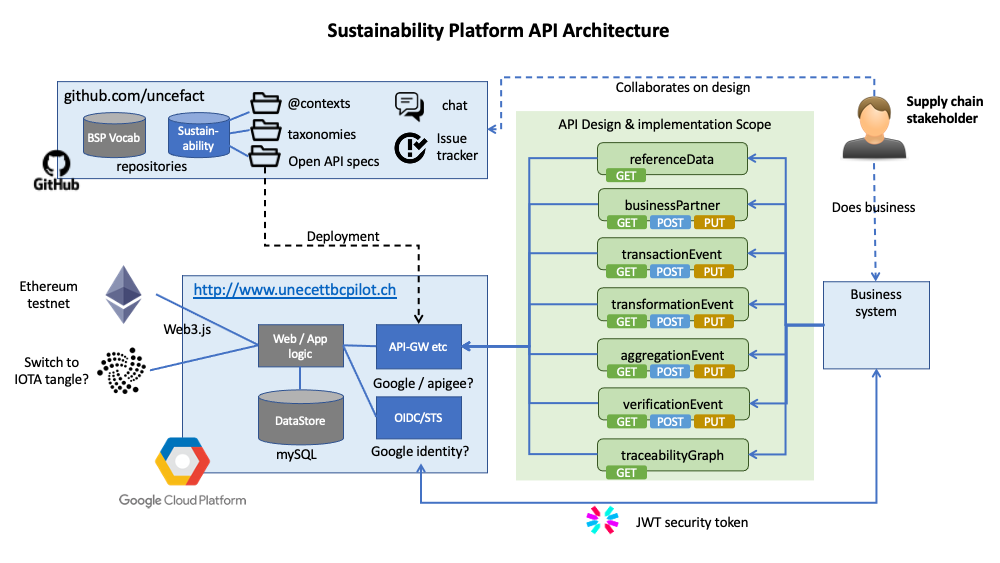
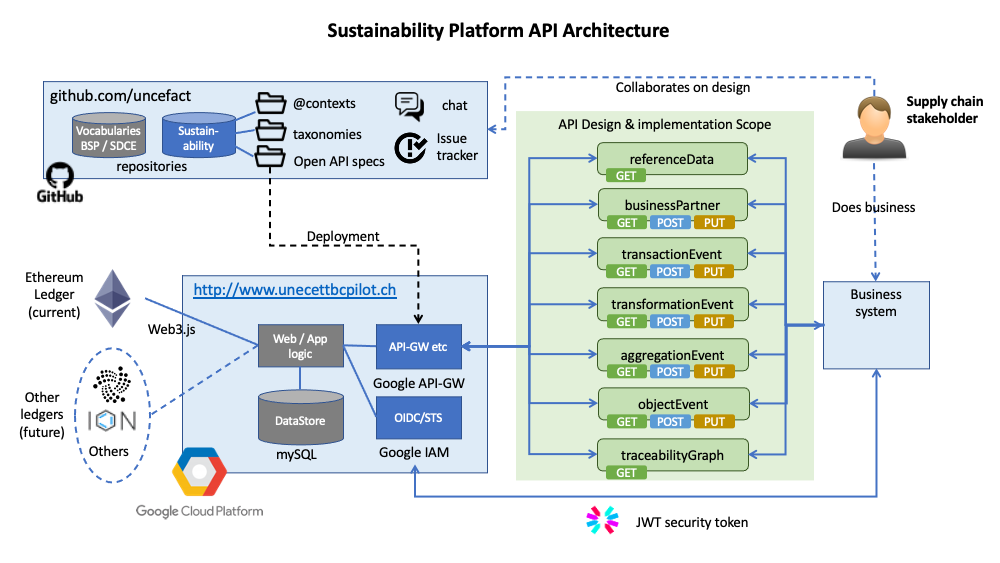
Gerhard feedback incorporated

diff --git a/README.md b/README.md
@@ -4,26 +4,26 @@ API definitions, JSON-LD vocabulary, and testable mocks for a UN standard supply
 
 Quick link| Description
 --|--
-Vocabulary| JSON-LD vocabularies (coming march 2022)
-API specification| RESTful Open API 3.0 specifications (coming march 2022)
+Vocabulary JSON-LD vocabularies (coming march 2022)
+API specification RESTful Open API 3.0 specifications (coming march 2022)
 Postman collection | API test client (coming April 2022)
 GraphQL playground | test area for trust graph queries
 [Project kanban](https://github.com/orgs/uncefact/projects/2/views/4)| epics, tasks, and milestones
-[Discussion Board](https://github.com/uncefact/traceability/discussions)|discussions about key topics and decisions
+[Discussion Board](https://github.com/uncefact/traceability/discussions)discussions about key topics and decisions
 
 
 ## Business Context
 
-In partnership with the International Trade Centre ([ITC](https://www.intracen.org/)) and with support from the European Union (EU), the United Nations Economic Commision for Europe ([UNECE](https://unece.org/)) is running a [program](https://unece.org/trade/traceability-sustainable-garment-and-footwear) to leverage supply chain traceability to improve sustainability in textile and leather supply chains.
+In partnership with the International Trade Centre ([ITC](https://www.intracen.org/)) and with support from the European Union (EU), the United Nations Economic Commission for Europe ([UNECE](https://unece.org/)) is running a [program](https://unece.org/trade/traceability-sustainable-garment-and-footwear) to leverage supply chain traceability to improve sustainability in textile and leather supply chains.
 
 https://unece.org/trade/traceability-sustainable-garment-and-footwear
 
 A component of the program is to demonstrate the feasibility of a decentralised blockchain-based architecture for digitally verifiable traceability. The [blockchain pilot](https://unece.org/sites/default/files/2021-04/ECE_TRADE_C_CEFACT_2021_12E-TextilePolicyBrief.pdf) has achieved significant interest from brands and jurisdictions and has successfully demonstrated the feasibility of leveraging transparency and verified claims to assure sustainability in the cotton and leather supply chain. However, the current platform requires manual entry of all data and so, whilst entirely suitable for early trials, faces two significant scalability challenges:
 
-1. **Data volumes.** Manual data entry works for a few dozens or hundreds of transactions sifficient to prove a traceability chain.  However it will not scale to the billions of transactions across the modern global supply chain. Therefore, this project will define a JSON-LD vocabulary and suite of RESTful APIs to support automation of traceability data exchange.
-2. **Supply chain complexity.** The textile & leather supply chain is truly global and very complex - including primary producers, ginning & weaving, garment manufacturing, distribution & retail, and eventual disposal. Even with API automation interfaces, it is unreasonable to imagine that every supply chain participant around the world will push their data to a single central traceability platform. Therefore, this project will define a decentralised linked data architecture based on W3C Verifiable Credentials and Decentralised Identifiers that will allow sustainability claims to be verified even when traceability data is distributed across thousands of different business systems and hundreds of different distributed ledger / traceability platforms.
+1. **Data volumes.** Manual data entry works for a few dozens or hundreds of transactions sufficient to prove a traceability chain.  However it will not scale to the billions of transactions across the modern global supply chain. Therefore, this project will define a JSON-LD vocabulary and suite of RESTful APIs to support automation of traceability and transparency data exchange.
+2. **Supply chain complexity.** The textile & leather supply chain is truly global and very complex - including primary producers, ginning & weaving, garment manufacturing, distribution & retail, and eventual disposal. Even with API automation interfaces, it is unreasonable to imagine that every supply chain participant around the world will push their data to a single central traceability platform. Therefore, this project will define a decentralised linked data architecture based on W3C Verifiable Credentials and Decentralised Identifiers that will allow sustainability claims to be verified even when traceability and transparency data is distributed across thousands of different business systems and hundreds of different distributed ledger / traceability platforms.
 
-The first step is to leverage standard GS1 and UN/CEFACT semantics to define standard APIs that the current UNECE traceability platform will support.  The next step is to leverage the same GS1 & UN/CEFACT semantics as the credential interoperability framework between a global network of platforms. 
+The first step is to leverage standard ISO EPCIS and UN/CEFACT semantics to define standard APIs that the current UNECE traceability platform will support.  The next step is to leverage the same GS1 & UN/CEFACT semantics as the credential interoperability framework between a global network of platforms. 
 
 ## API Requirements
 
@@ -31,9 +31,9 @@ The data held by the UNECE platform is essentially a series of key supply chain 
 
 ### API Principles
 
-* **Standards based.**  Aligned with the GS1 [EPCIS](https://www.gs1.org/standards/epcis/1-1) event model and conforming to UN/CEFACT supply chain semantics. This ensures consistency across multiple implementations.
+* **Standards based.**  Aligned with the ISO [EPCIS](https://www.gs1.org/standards/epcis/1-1) event model and conforming to UN/CEFACT supply chain semantics. This ensures consistency across multiple implementations.
 * **Lightweight.**  A suite of modern RESTful APIs that are simple to understand and easy to implement. This ensures that implementation effort and cost is minimised for our industry partners.
-* **Decentralisation aligned.** Since event data will come from multiple industry systems and must be correlated across the supply chain, the APIs will avoid locally maintained master data (products, locations, entities, etc) and will instead focus on the use of resolvable public identifiers where master data is maintained in whatever system is the identity authrority (eg a national business register).
+* **Decentralisation aligned.** Since event data will come from multiple industry systems and must be correlated across the supply chain, the APIs will avoid locally maintained master data (products, locations, entities, etc) and will instead focus on the use of resolvable public identifiers where master data is maintained in whatever system is the identity authority (eg a national business register).
 * **Secure.**  Applies best practice security architectures (authentication, authorisation, encryption, etc) and collects only the minimum required data. This ensures that data from industry partners is secure, and that commercial sensitive information is not exposed to unauthorised parties.
 * **Collaborative.**  We will co-design the APIs together with industry partners to ensure that they are fit for purpose and easily implementable.
 
@@ -48,21 +48,21 @@ The scope of APIs to be implemented is shown in the green box.
 * **Reference data API** allows industry systems to access the common vocabulary of terms such as document type, business step, and sustainability claim type.
 * **Business partner API** allows industry systems to create / update basic business partner data so that the platform has the contact information to verify claims (not needed for digitally verifiable claims).
 * **Transaction event API** is used to notify / update business-to-business events such as shipments & invoices.
-* **Transformation event API** is used to notify / update manufacturing events that transform input materials (eg thread) into output materials (eg fabric).
+* **Transformation event API** is used to notify / update manufacturing events that transform input materials (eg yarn) into output materials (eg fabric).
 * **Aggregation event API** is used to notify / update transport events when materials are packed or unpacked (eg many packages grouped into a pallet)
-* **Verification event API** is used to notify / update inspection or certification actions on either items or establishments.
+* **Object event API** is used to notify / update actions such as movements or inspections on specific objects such as trade items or facilities.
 * **Traceability graph API** provides a query interface for authorised users to retrieve all the linked events (commercially sensitive information redacted) for a given product that are used to verify sustainability. This API provides industry partners with the evidence to back their product sustainability claims.
 
 ### API Security model
 
-API Security will follow standard token based access control using OAuth implicit flow. This model is preferred over simple API keys as it is less susceptible to man-in-the-middle attacks and support finer grained role based acces via claims in the JWT.  For the UNECE platform which is hosted on Google Cloud, this means
+API Security will follow standard token based access control using OAuth implicit flow. This model is preferred over simple API keys as it is less susceptible to man-in-the-middle attacks and support finer grained role based access via claims in the JWT.  For the UNECE platform which is hosted on Google Cloud, this means
 
 * Google [IAM](https://cloud.google.com/iam) for service account management and 
 * Google API Gateway [JWT](https://cloud.google.com/api-gateway/docs/authenticating-users-jwt) authentication method.
 
 ## Vocabulary Requirements
 
-The API structure (ie schema) for EPCIS based traceability events is very simple. Essentially, each event is a small bundle of identifiers that say **who**  (party ID) and **why** (business action ID or certification ID) an event is created and about about **what** (productID or facilityID) and **where** (location ID) and **when** (time-stamp) is is made. The interoperability challenge lies not in the message structure but in the consistent use of identifiers across multiple systems. Without that consistency, there will be no easy way to link events to form the traceability graph that lies at the heart of verifiable sustainability claims.
+The API structure (ie schema) for EPCIS based traceability events is very simple. Essentially, each event is a small bundle of identifiers that say **who**  (party ID) and **why** (business action ID or certification ID) an event is created and about about **what** (productID) and **where** (location ID or facilityID) and **when** (time-stamp) is is made. The interoperability challenge lies not in the message structure but in the consistent use of identifiers across multiple systems. Without that consistency, there will be no easy way to link events to form the traceability graph that lies at the heart of verifiable sustainability claims.
 
 All identifiers MUST be globally unique and SHOULD be
 
@@ -77,7 +77,8 @@ There are a number of important identifier types.
   * Claim equivalence. The ITC has analysed of 300 certification / compliance frameworks in order to develop a [standards map](https://www.standardsmap.org/en/identify) that can be used to identify equivalence between compliance claims from different standards. This data can be used to enrich specific sustainability claims with equivalence categories so that verifiers can accept sustainability claims without necessarily knowing the details of a specific standard.
 * **Entity Identifiers.** In order to successfully join the dots in a given supply chain, all entity identifiers must be resolvable to one or more verifiable public identities expressed as URIs. Suitable identifier schemes are
   *  DNS domain names - verified using [did:dns](https://danubetech.github.io/did-method-dns/) (for verifiable credentials) or [DKIM](https://datatracker.ietf.org/doc/html/rfc6376) (for email verification) 
-  *  National business register entries (eg https://www.abr.business.gov.au/ABN/View?abn=41161080146) verified via a register issued digital credential (automated) or via paper registration certificate inspection (manual). 
+  *  National business register entries (eg https://www.abr.business.gov.au/ABN/View?abn=41161080146) verified via a register issued digital credential (automated) or via paper registration certificate inspection (manual).
+* **Product Identifiers.** should be a [GS1 GTIN](https://www.gs1.org/standards/id-keys/gtin) where possible. A GTIN is a Global Trade Item Number - presented as a URI (eg urn:epc:id:sgtin:0614141.107346.2017.  Ideally all GTIN should also be registered as a [GS1 digital link](https://www.gs1.org/standards/gs1-digital-link) so that further product information is easily discoverable. Use of GTIN may be more difficult for upstream items such as bulk cotton. Appropriate alternative product identifiers will be determined during API co-design.
 * **Product Identifiers.** should be a [GS1 GTIN](https://www.gs1.org/standards/id-keys/gtin) (Global Trade Item Number - presented as a URI (eg ```urn:epc:id:sgtin:0614141.107346.2017```).  Ideally all GTIN should also be registered as a [GS1 digital link](https://www.gs1.org/standards/gs1-digital-link) so that further product information is easily discoverable.  
 * **Location Identifiers.** should use [plus codes](https://maps.google.com/pluscodes/) as a URI (eg https://plus.codes/4RPFP4QJ+6G). A plus code identifies a latitude / longitude bounded area of variable resolution (eg could identify a farming region, a specific field, or a street location). The use of plus codes allows easy rendering of traceability graphs as geographic maps, supports location identification of non-address locations such as a field of cotton.  It also appropriately separates geographic locations from entity identifiers so that location information can be provided without correlating to specific supplier identities that may be commercial in confidence.
 
